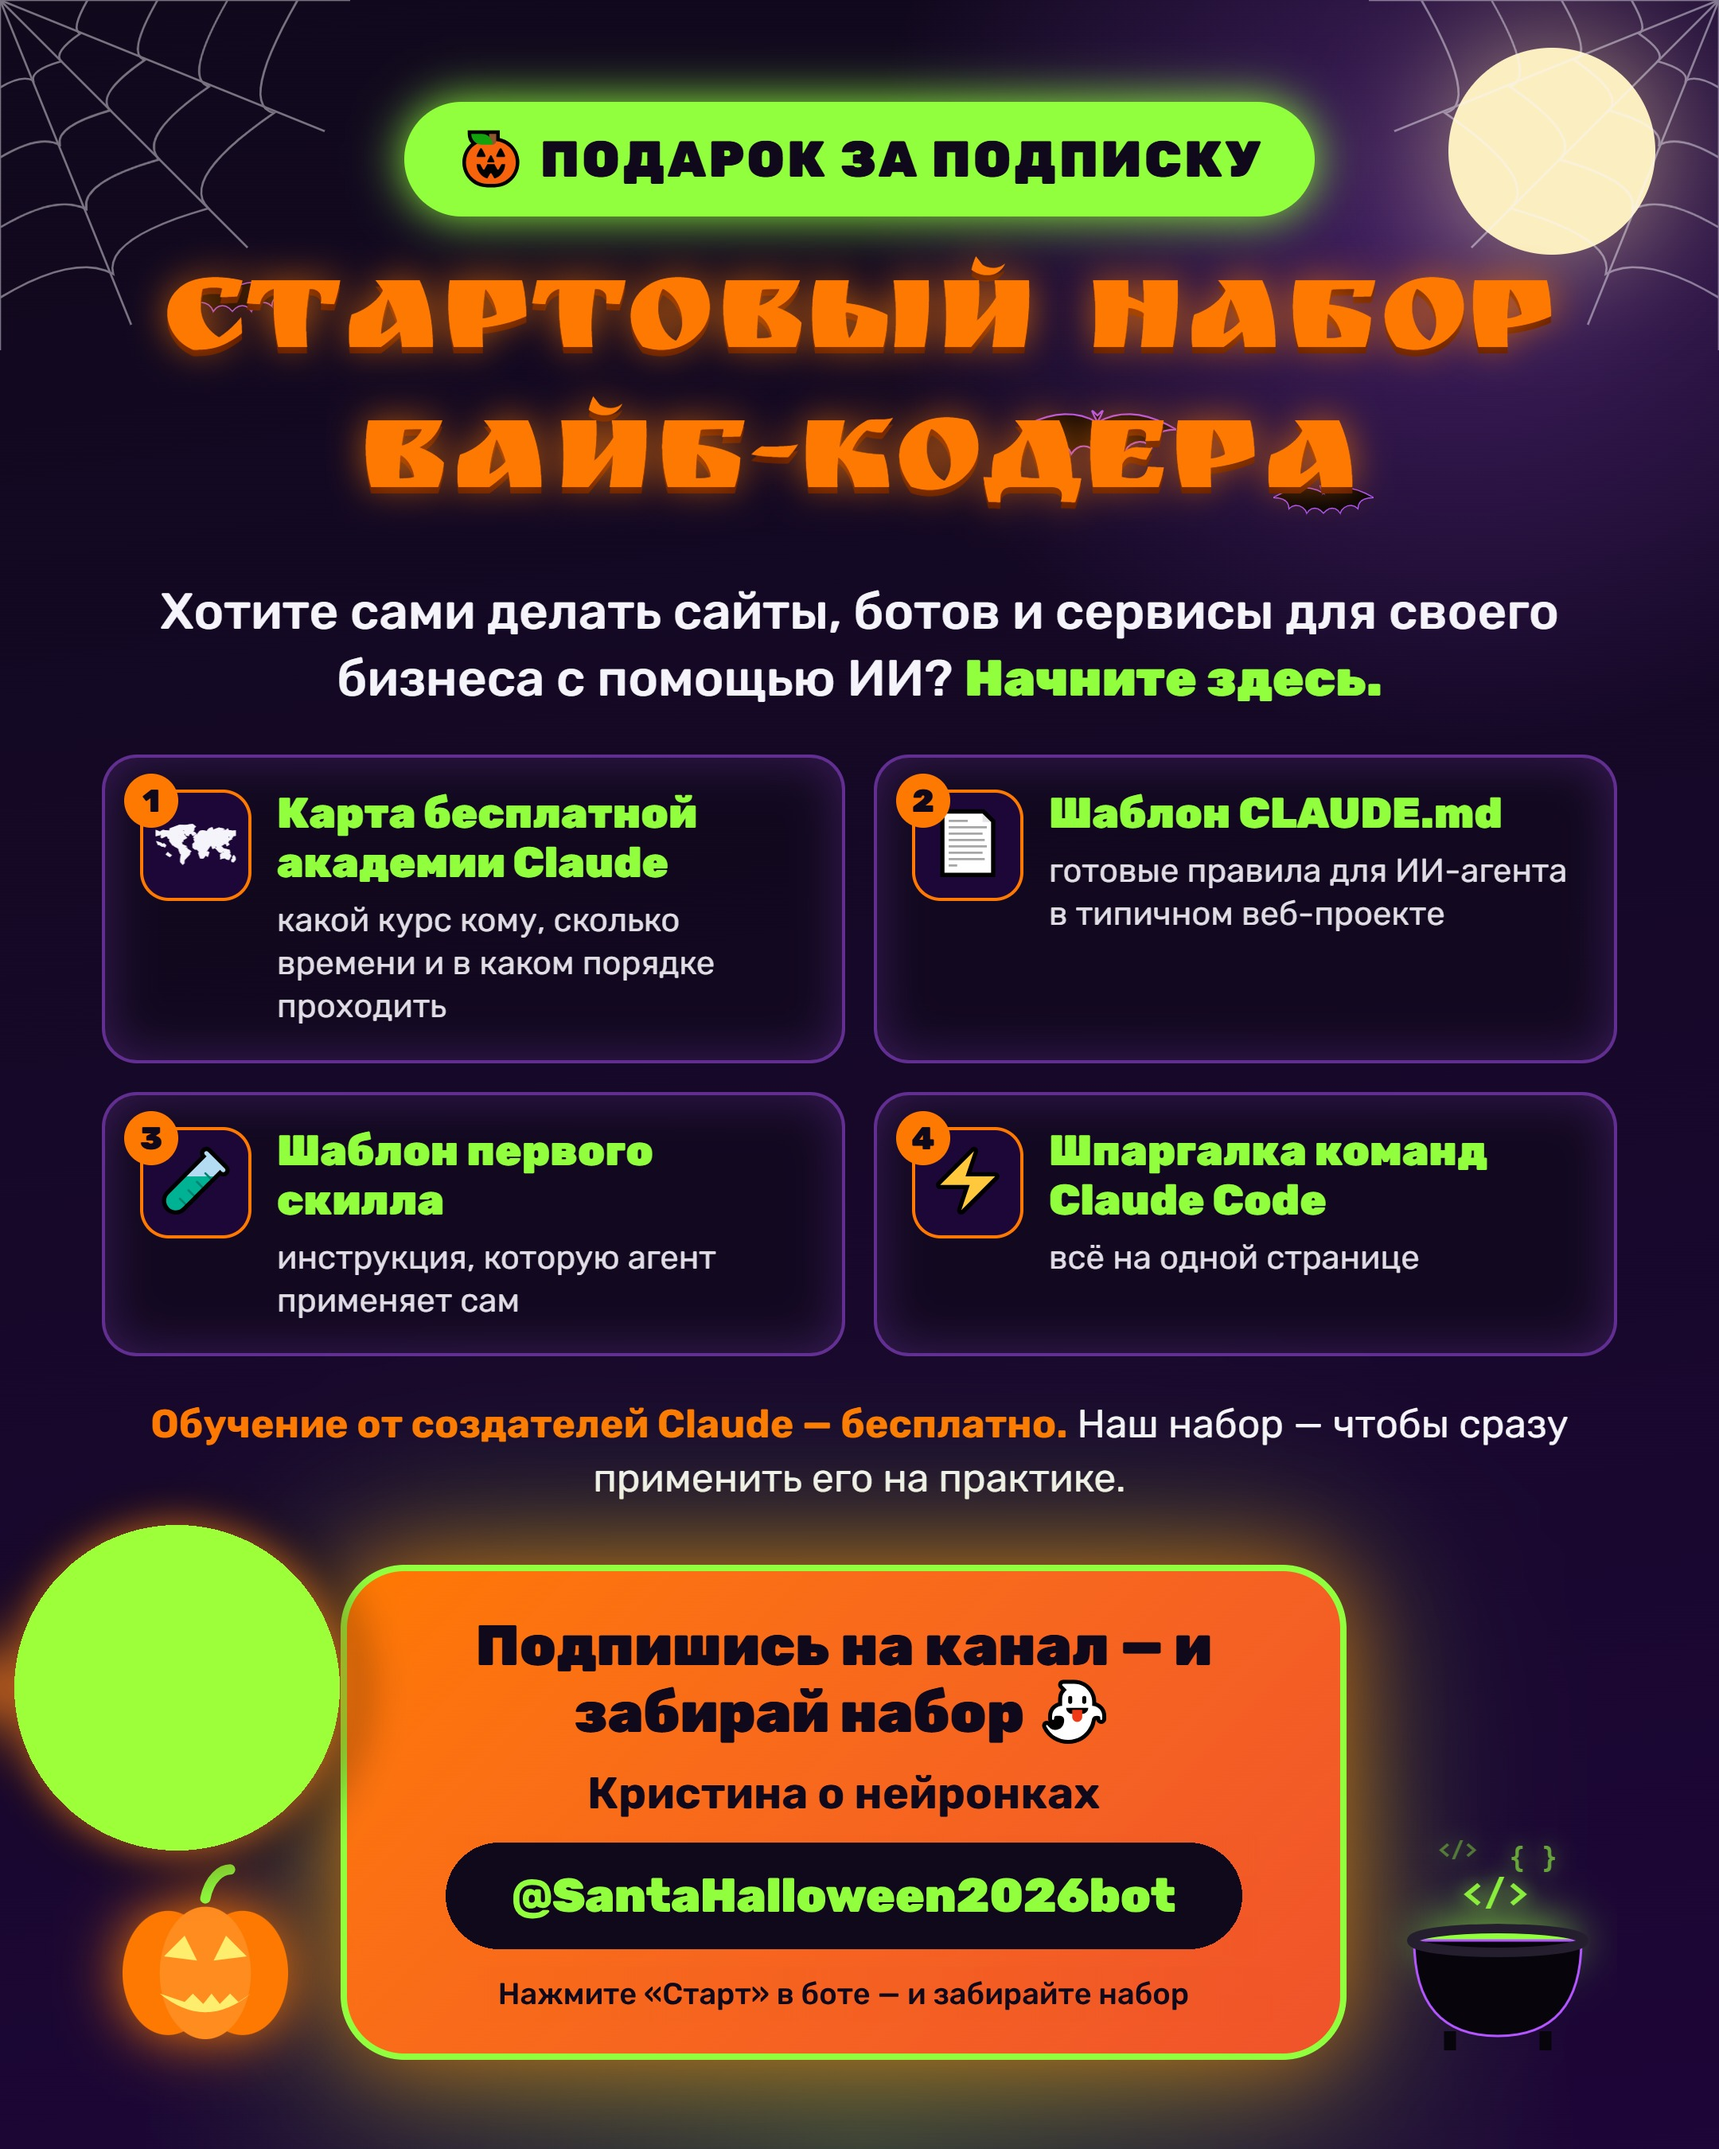
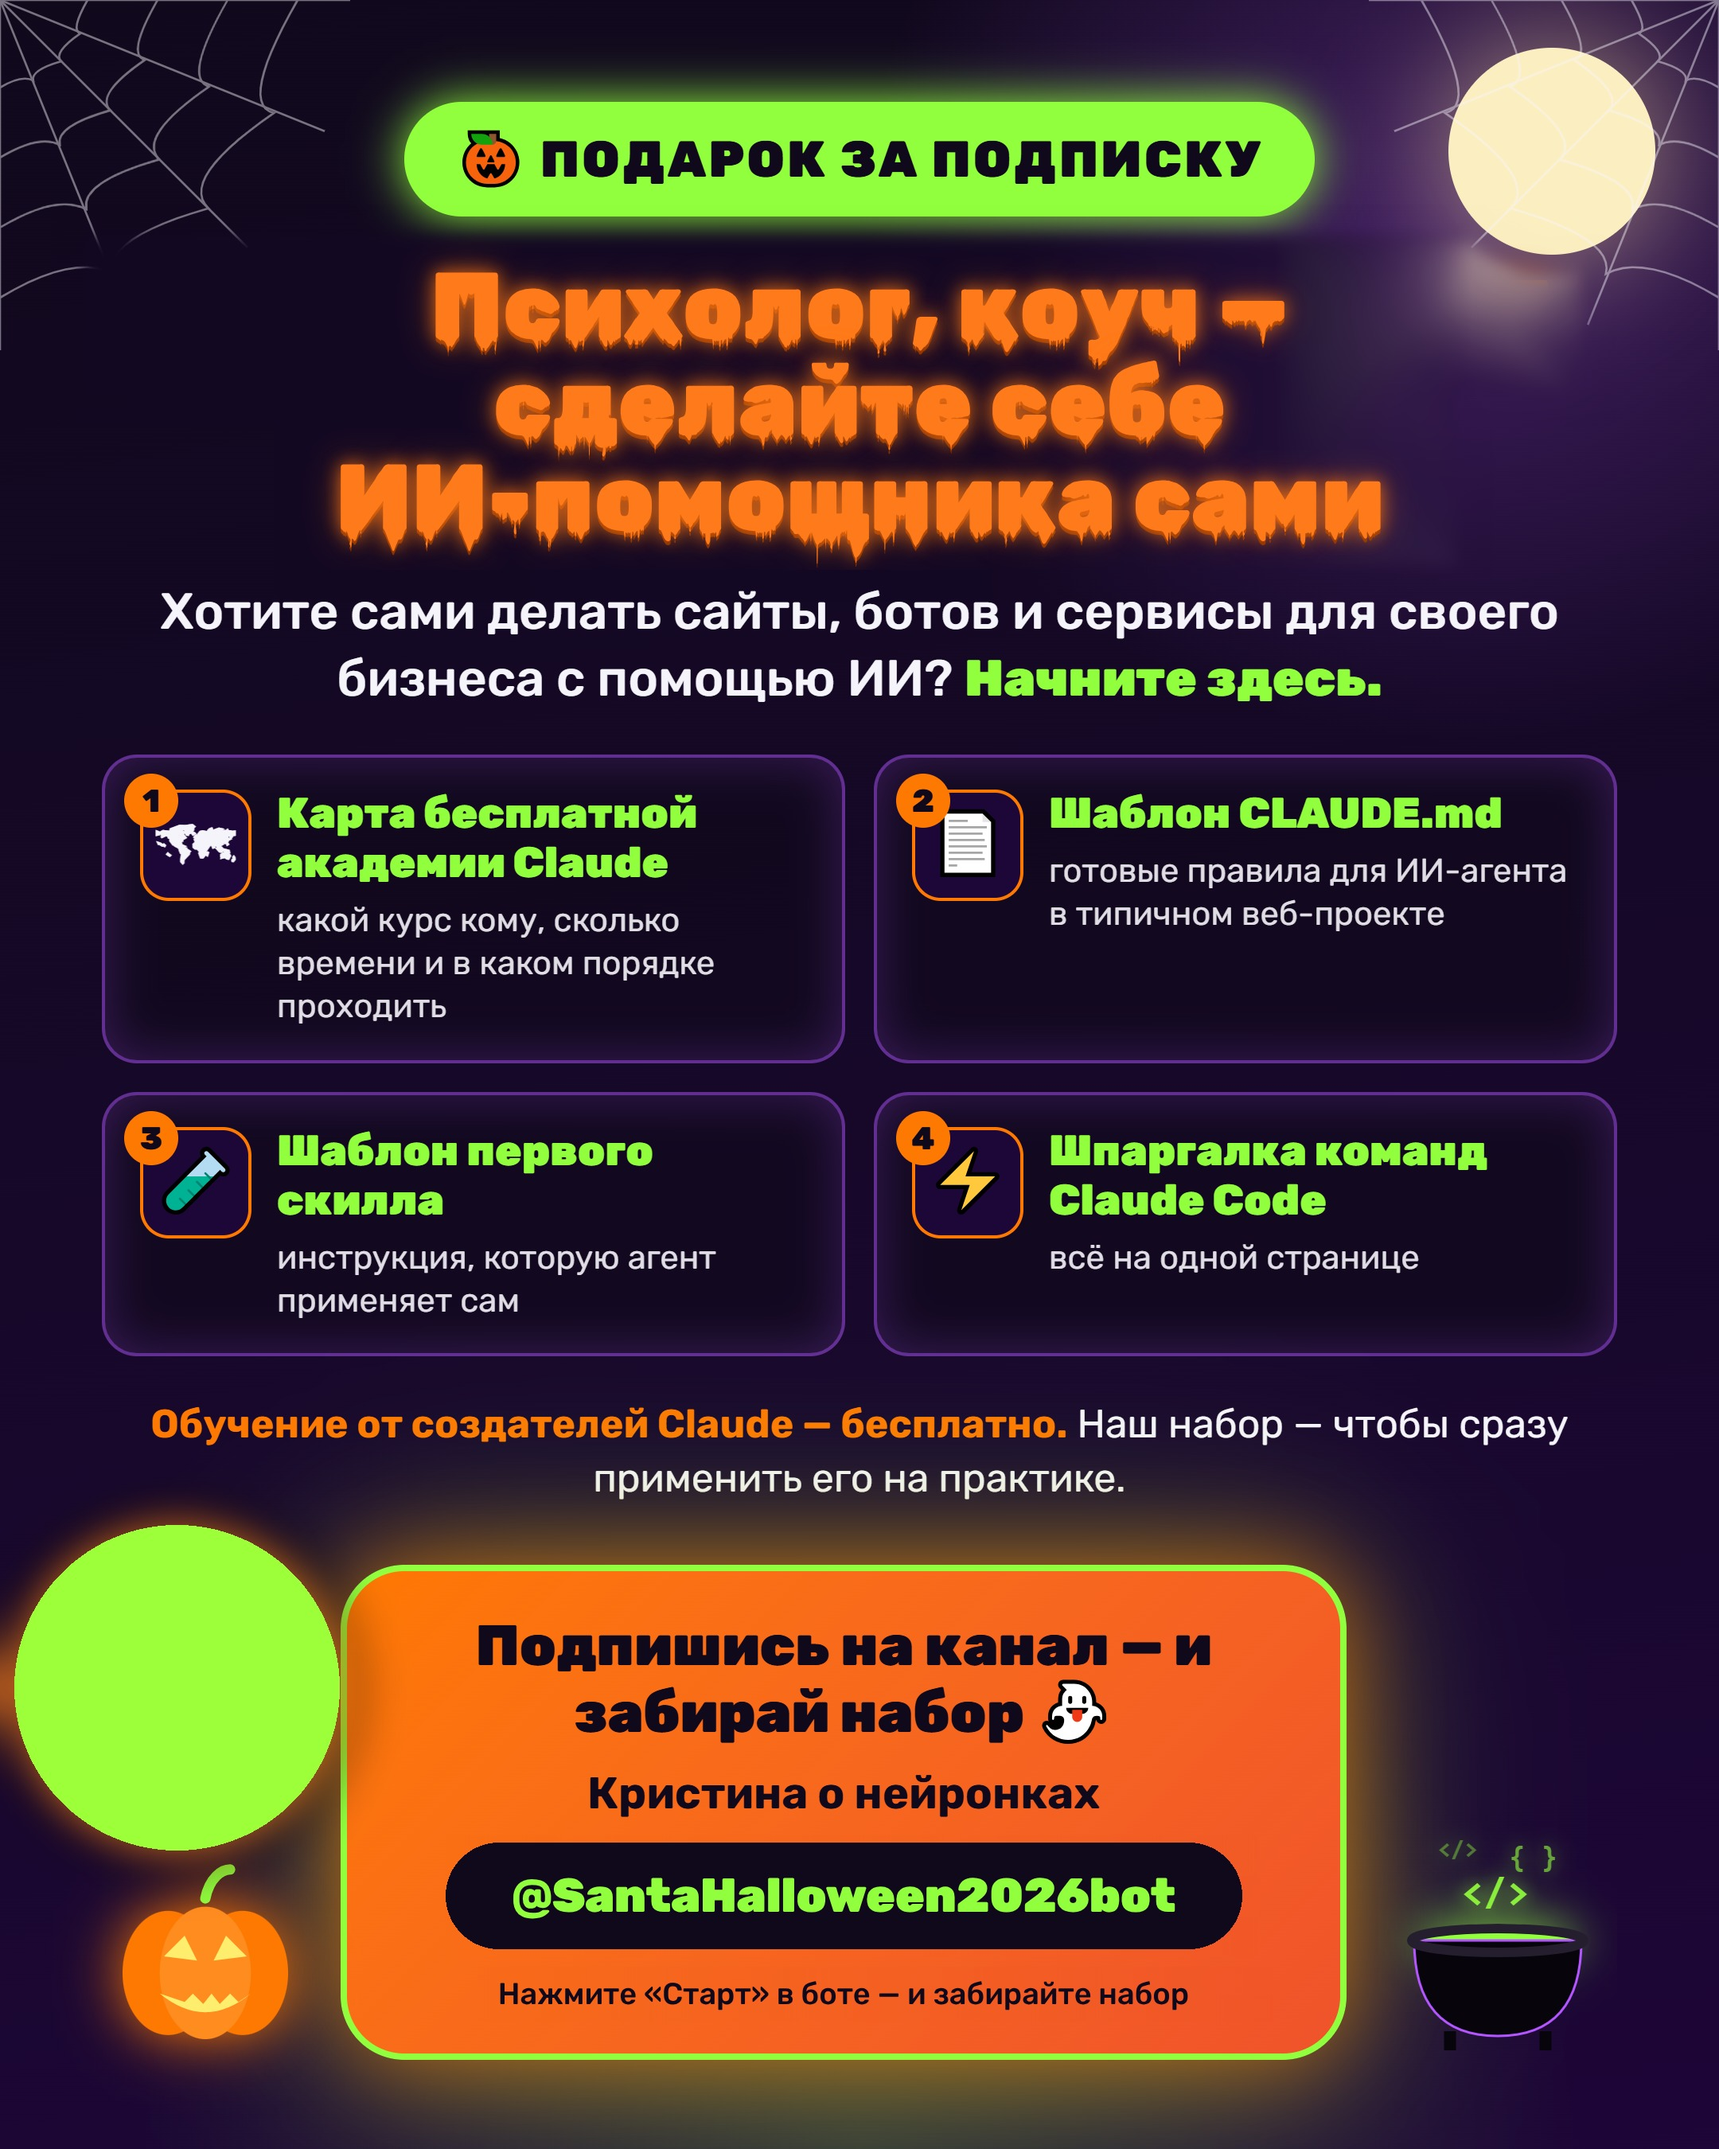
Заголовок для психологов и коучей: обложка, приветствие, тексты бота
Claude-Session: https://claude.ai/code/session_015zoKUdZLdmCKE6kc81hVxB

Changed region(s): [[0.062, 0.0933, 0.9306, 0.28]]

diff --git a/server/bot.ts b/server/bot.ts
@@ -26,13 +26,13 @@ const kristinaBtn = () => [{text: '🎃 Оставить фото Кристин
 export const preamble = () =>
   'Друзья, добрый день!\n' +
   'Я стараюсь развиваться, чтобы делать вашу жизнь легче и интереснее.\n' +
-  'Поэтому забираю подарок от Кристины — стартовый набор вайб-кодера — и делюсь им с вами.\n' +
+  'Поэтому забираю подарок от Кристины — набор, чтобы сделать себе ИИ-помощника самостоятельно, — и делюсь им с вами.\n' +
   'С праздником! 🎃\n\n' +
   `Забрать набор: @${cfg.botUsername()}`;
 
 const welcome = () =>
   '🎃 <b>Привет! Это хэллоуинский бот Кристины.</b>\n\n' +
-  'Здесь живёт <b>Стартовый набор вайб-кодера</b>:\n' +
+  '<b>Психолог, коуч — сделайте себе ИИ-помощника сами.</b>\nВ наборе:\n' +
   '🗺 Карта бесплатных курсов Академии Claude\n' +
   '📂 Шаблон CLAUDE.md для веб-проекта\n' +
   '🧪 Шаблон первого скилла\n' +
@@ -80,11 +80,11 @@ async function sendWelcome(d: Deps, chat: number, viaLink = false) {
     ? kb([[{text: '🎁 Забрать набор', url: `https://t.me/${cfg.botUsername()}?start=kit`}]])
     : kb([[{text: '🎁 Забрать набор', data: 'kit'}]]);
   try {
-    const cached = await d.users.getCache<string>('welcome');
+    const cached = await d.users.getCache<string>('welcome-v2-psy');
     if (cached) return await d.tg.call('sendPhoto', {chat_id: chat, photo: cached, caption: welcome(), parse_mode: 'HTML', reply_markup: markup});
     const r = await d.tg.upload('sendPhoto', {chat_id: String(chat), caption: welcome(), parse_mode: 'HTML', reply_markup: markup},
       [{name: 'photo', data: new Uint8Array(await readFile(asset('assets/welcome.png'))), filename: 'welcome.png', type: 'image/png'}]);
-    await d.users.setCache('welcome', r.photo.at(-1).file_id);
+    await d.users.setCache('welcome-v2-psy', r.photo.at(-1).file_id);
   } catch (e) {
     console.warn('welcome photo failed', e);
     await send(d, chat, welcome(), {reply_markup: markup});
@@ -93,7 +93,7 @@ async function sendWelcome(d: Deps, chat: number, viaLink = false) {
 
 // ---------- выдача набора ----------
 export async function deliverKit(d: Deps, userId: number) {
-  await send(d, userId, '🎁 <b>Ваш Стартовый набор вайб-кодера!</b>');
+  await send(d, userId, '🎁 <b>Ваш набор «ИИ-помощник своими руками»!</b>');
   const cached = await d.users.getCache<string[]>('kit');
   const files = readdirSync(asset('assets/kit')).filter(f => f.endsWith('.pdf')).sort();
   const caption = (f: string) => (f.includes('Бонус') ? 'И ещё бонус от меня 🎁' : undefined);
@@ -194,11 +194,11 @@ async function handlePostLink(d: Deps, uid: number, text: string) {
 async function sendInvoice(d: Deps, uid: number) {
   await d.tg.call('sendInvoice', {
     chat_id: uid,
-    title: 'Стартовый набор вайб-кодера',
+    title: 'ИИ-помощник своими руками',
     description: 'Карта курсов Академии Claude, шаблоны CLAUDE.md и первого скилла, шпаргалка Claude Code + бонус: 10 топовых скиллов. 5 PDF прямо в бот.',
     payload: `kit:${uid}`,
     currency: 'XTR',
-    prices: [{label: 'Стартовый набор', amount: cfg.priceStars()}],
+    prices: [{label: 'Набор', amount: cfg.priceStars()}],
   });
 }
 
@@ -340,7 +340,7 @@ async function onMessage(d: Deps, msg: any) {
     if (await onAdmin(d, uid, c, arg)) return;
     if (c === '/terms') {
       return send(d, uid,
-        `📄 Условия\n\n«Стартовый набор вайб-кодера» — 5 PDF-файлов. Оплата ${cfg.priceStars()} ⭐ Telegram Stars.\n` +
+        `📄 Условия\n\n«ИИ-помощник своими руками» — 5 PDF-файлов. Оплата ${cfg.priceStars()} ⭐ Telegram Stars.\n` +
         'Файлы приходят сюда, в бот, сразу после оплаты.\nЕсли файлы не пришли или что-то пошло не так — напишите в /paysupport, разберёмся или вернём звёзды.\n' +
         'Материалы — для личного использования.');
     }

diff --git a/public/index.html b/public/index.html
@@ -1,3 +1,3 @@
 <!doctype html><html lang="ru"><head><meta charset="utf-8"><meta name="viewport" content="width=device-width,initial-scale=1"><title>Хэллоуинский бот</title>
 <style>body{margin:0;min-height:100vh;display:grid;place-items:center;background:#1E0B33;color:#EDE8F5;font-family:system-ui,sans-serif;text-align:center;padding:16px}a{color:#9CFF3A;font-weight:700}</style></head>
-<body><div><h1 style="color:#FF8A1E">🎃 Стартовый набор вайб-кодера</h1><p>Забрать набор: <a href="https://t.me/SantaHalloween2026bot">@SantaHalloween2026bot</a></p></div></body></html>
+<body><div><h1 style="color:#FF8A1E">🎃 Психолог, коуч — сделайте себе ИИ-помощника сами</h1><p>Забрать набор: <a href="https://t.me/SantaHalloween2026bot">@SantaHalloween2026bot</a></p></div></body></html>
